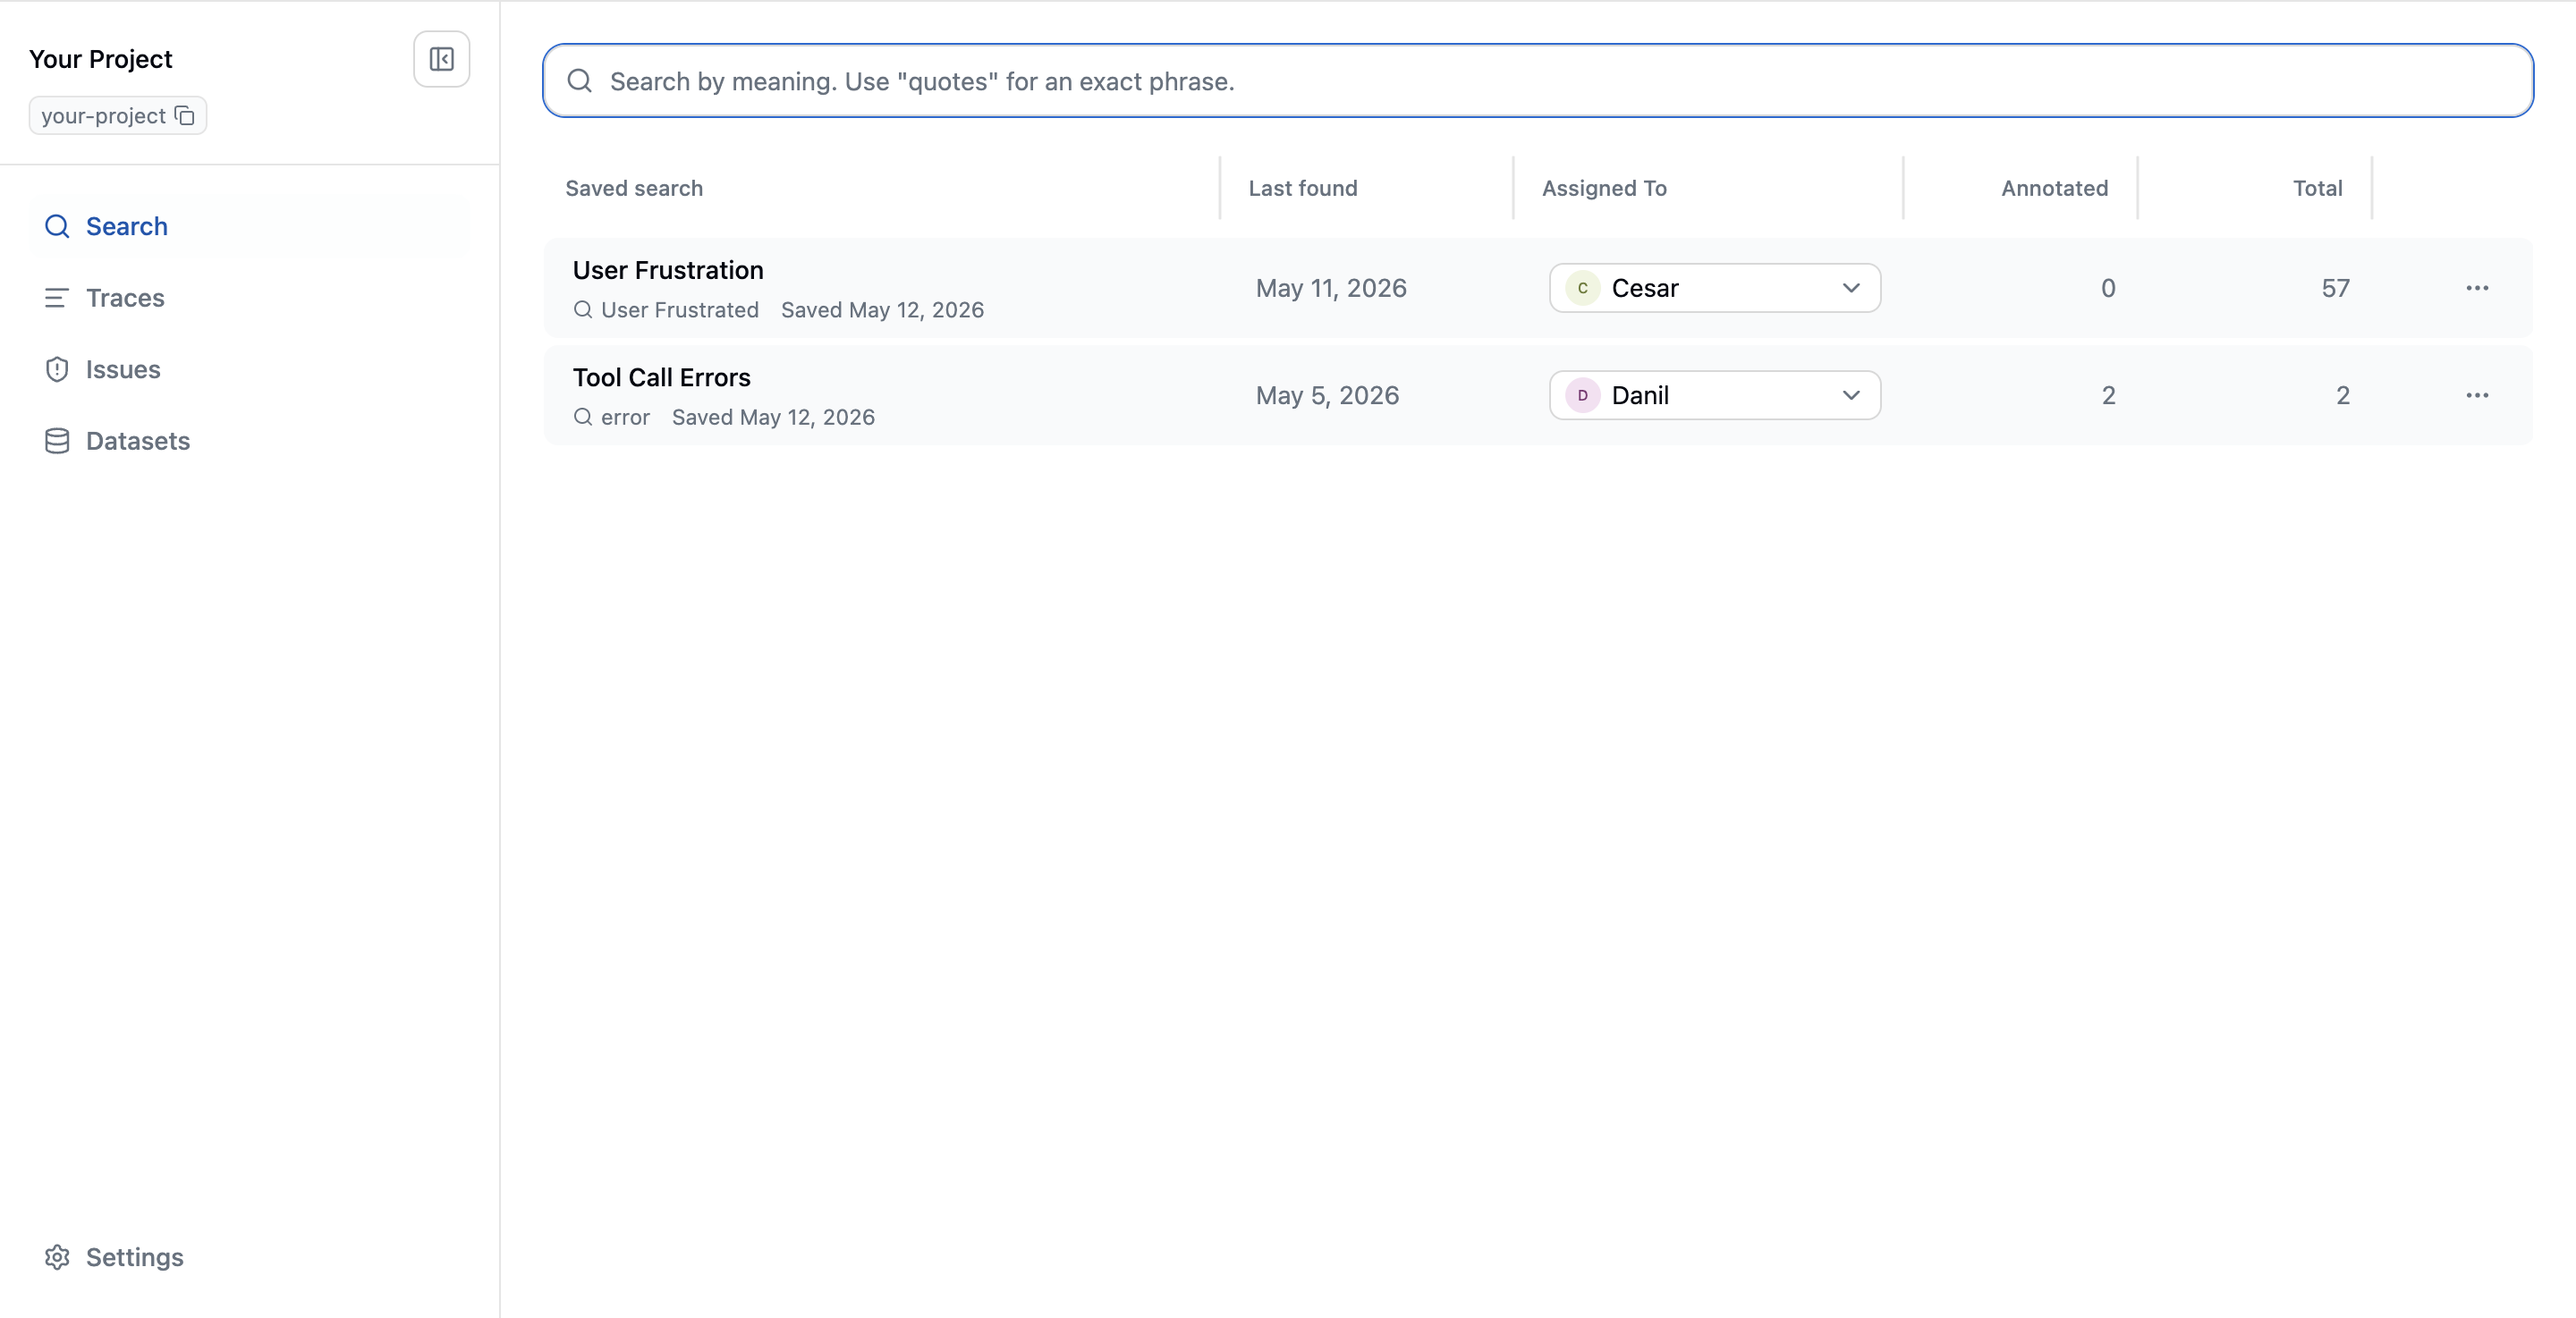
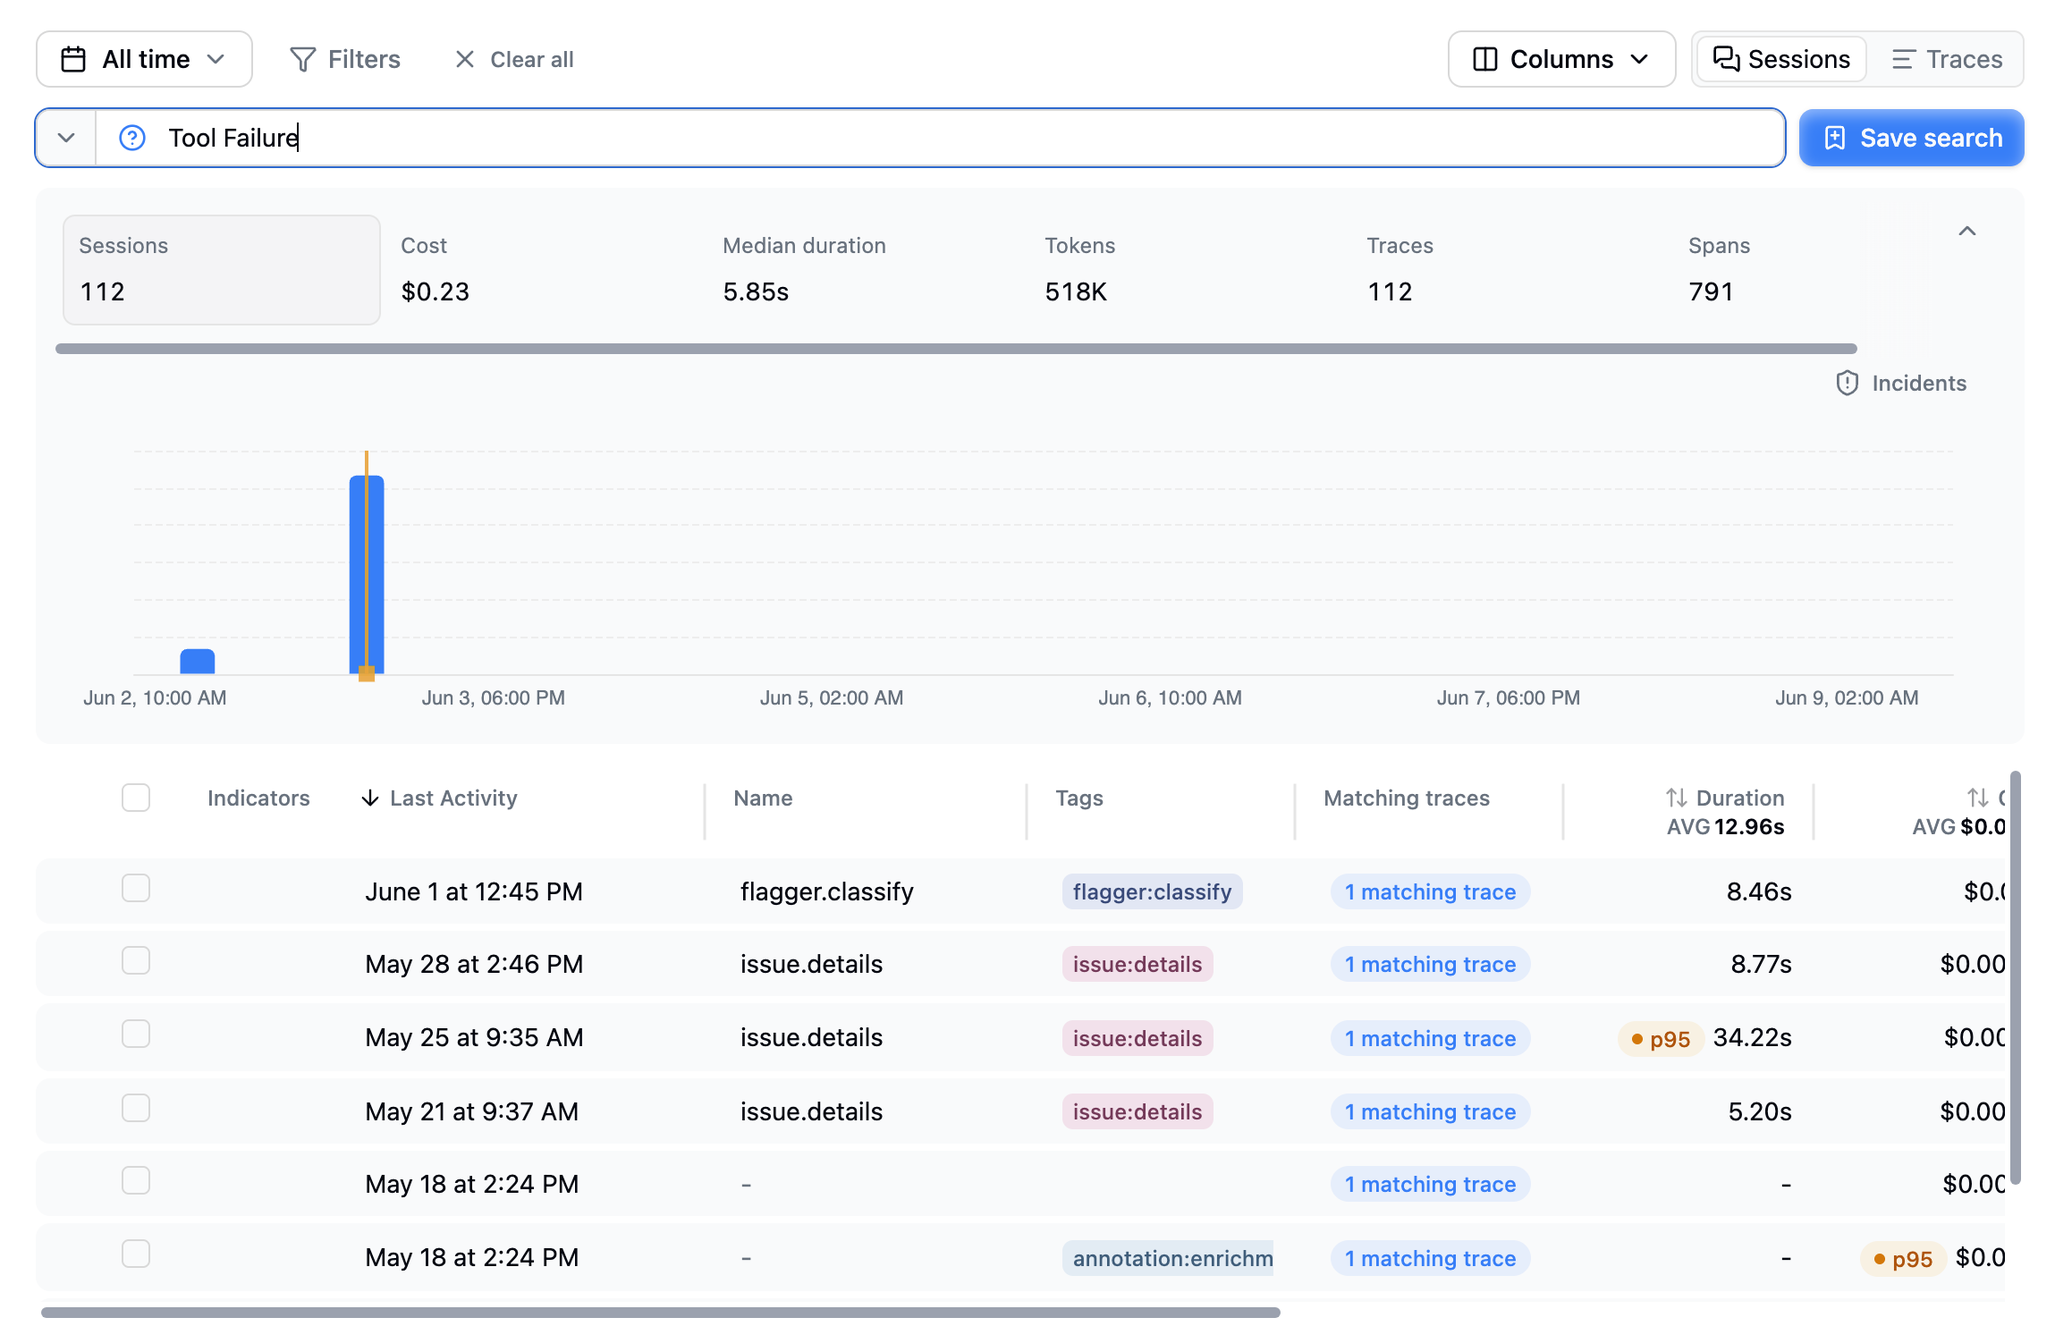
docs: reflect search-in-Traces, sessions, and Slack notifications
Search is no longer a standalone tab; it lives on the Traces page with a
Saved searches dropdown. Update the search docs, quick starts, filters, and
annotation guides to match, and drop the removed saved-search assignment,
Annotated/Total, and Last-found content (those fields no longer exist).

Also correct the Sessions page to the current Sessions/Traces tab toggle and
column set, and add a brief note that incidents can be delivered to Slack via
Settings -> Integrations. Refresh the search screenshots.

diff --git a/docs/getting-started/quick-start-pm.md b/docs/getting-started/quick-start-pm.md
@@ -37,19 +37,11 @@ Use the filter sidebar to narrow traces by status, cost, duration, model, provid
 
 ## Finding Traces with Search
 
-The **Search** page is where you go to investigate a specific kind of trace. Type a plain-English query — _"failed payments"_, _"frustrated user"_, _"long latency on signup"_ — and Latitude returns the most relevant traces, ranked by a hybrid of keyword and semantic match. Use `"quotes"` for exact phrases.
+Search lives right on the **Traces** page. Type a plain-English query into the search bar, such as _"failed payments"_, _"frustrated user"_, or _"long latency on signup"_, and Latitude returns the most relevant traces, ranked by a blend of keyword and semantic match. Use `"quotes"` for exact phrases.
 
 Filters work alongside the query, so you can scope to a time range, a specific model, traces with errors, or any custom metadata your application sends.
 
-When a search is one you'll come back to, click **Save search** in the toolbar. Saved searches appear on the Search landing page in a table with the columns:
-
-- **Saved search**: The name, plus a preview of the query and filters
-- **Last found**: When the most recent matching trace appeared
-- **Assigned To**: A team member responsible for reviewing matches
-- **Annotated**: How many matching traces have been reviewed
-- **Total**: How many traces currently match
-
-Use saved searches to define review cohorts for your team. The Annotated and Total counts help you track how much of a cohort has been reviewed. See [Saved Searches](../search/saved-searches) for details.
+When a search is one you'll come back to, click **Save search** and give it a name. Saved searches are then a click away from the **Saved searches** dropdown next to the search bar, each showing its name, query, and filter count. Reopening one restores its query and filters so you, or a teammate, can pick the cohort back up. See [Saved Searches](../search/saved-searches) for details.
 
 ## Automatic Detection with Flaggers
 

diff --git a/docs/getting-started/quick-start-dev.md b/docs/getting-started/quick-start-dev.md
@@ -49,14 +49,14 @@ Your project starts with default [flaggers](../annotations/flaggers) that automa
 
 ## Step 5: Explore with Search and Annotate
 
-Open the **Search** page in your project. This is where you build cohorts of traces to investigate or review.
+Open the **Traces** page in your project. The search bar at the top is where you build cohorts of traces to investigate or review.
 
 1. Type a query like _"failed payments"_ or _"frustrated user"_. Search blends keywords and meaning, so close paraphrases work.
 2. Add filters from the toolbar to narrow further (status, model, cost, custom metadata, etc.).
 3. Click into any matching trace to read the conversation.
 4. Use the annotation panel on the right to leave human feedback. Pick conversation-level, message-level, or text-range scope, give a thumbs-up or thumbs-down verdict, and add a short explanation.
 
-When a search becomes a regular part of your workflow, click **Save search** to bookmark it. Saved searches surface on the Search landing page with assignee, last-found timestamp, and annotated-vs-total review progress. See [Saved Searches](../search/saved-searches) for the full lifecycle.
+When a search becomes a regular part of your workflow, click **Save search** to bookmark it. Saved searches are available from the **Saved searches** dropdown next to the search bar; reopening one restores its query and filters. See [Saved Searches](../search/saved-searches) for the full lifecycle.
 
 Your annotations feed into issue discovery and evaluation alignment alongside the annotations that flaggers create automatically.
 

diff --git a/docs/annotations/inline-annotations.md b/docs/annotations/inline-annotations.md
@@ -5,7 +5,7 @@ description: Annotate any trace directly from its detail view
 
 # Inline Annotations
 
-Inline annotations are the main way to leave human feedback on a trace. Any trace you can open—from Traces, Search, Issues, or Sessions—has an annotation panel.
+Inline annotations are the main way to leave human feedback on a trace. Any trace you can open has an annotation panel, whether you reached it from the Traces page, Issues, or a saved search.
 
 ## How Inline Annotations Work
 
@@ -29,9 +29,9 @@ For batch review, start from [search](../search/overview) or a [saved search](..
 1. Run or open a search for the cohort you want to review, such as _"failed payments last week"_ or _"checkout flows over 5 steps"_.
 2. Open a matching trace.
 3. Read the conversation, annotate it, and move to the next trace.
-4. Use the saved search's **Annotated / Total** columns to track progress.
+4. Reopen the saved search from the **Saved searches** dropdown whenever you want to pick the cohort back up.
 
-For shared review work, assign the saved search to a teammate. Assignment is a lightweight ownership signal; everyone can still see and open the search.
+For shared review work, saved searches are visible to everyone in the project, so a teammate can open the same cohort from the **Saved searches** dropdown.
 
 ## When to Use Inline Annotations
 

diff --git a/docs/observability/filters.md b/docs/observability/filters.md
@@ -11,7 +11,7 @@ Latitude uses a universal filter system across the platform. The same filters yo
 
 A filter is a set of field conditions. Active conditions combine with **AND** logic. For example, "Status is error" and "Cost is greater than $1" returns only traces that match both conditions.
 
-Filters appear on the Traces page, in the Search page (alongside the search query), and in the configuration UI for evaluation triggers.
+Filters appear on the Traces page (alongside the search query) and in the configuration UI for evaluation triggers.
 
 <Frame>
   <img
